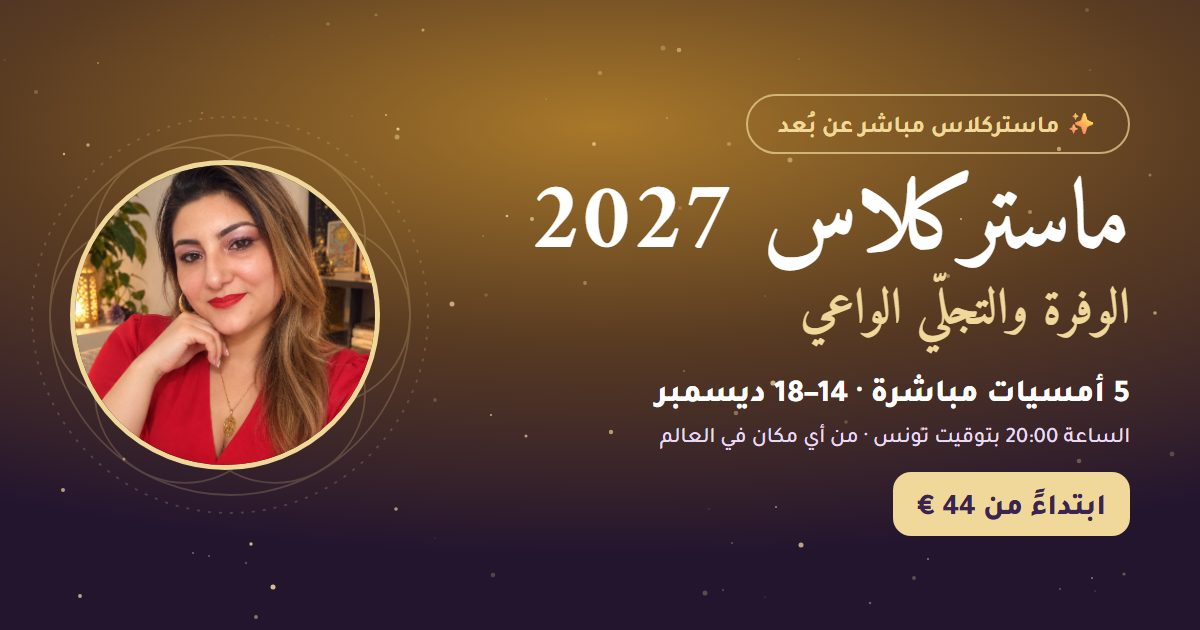
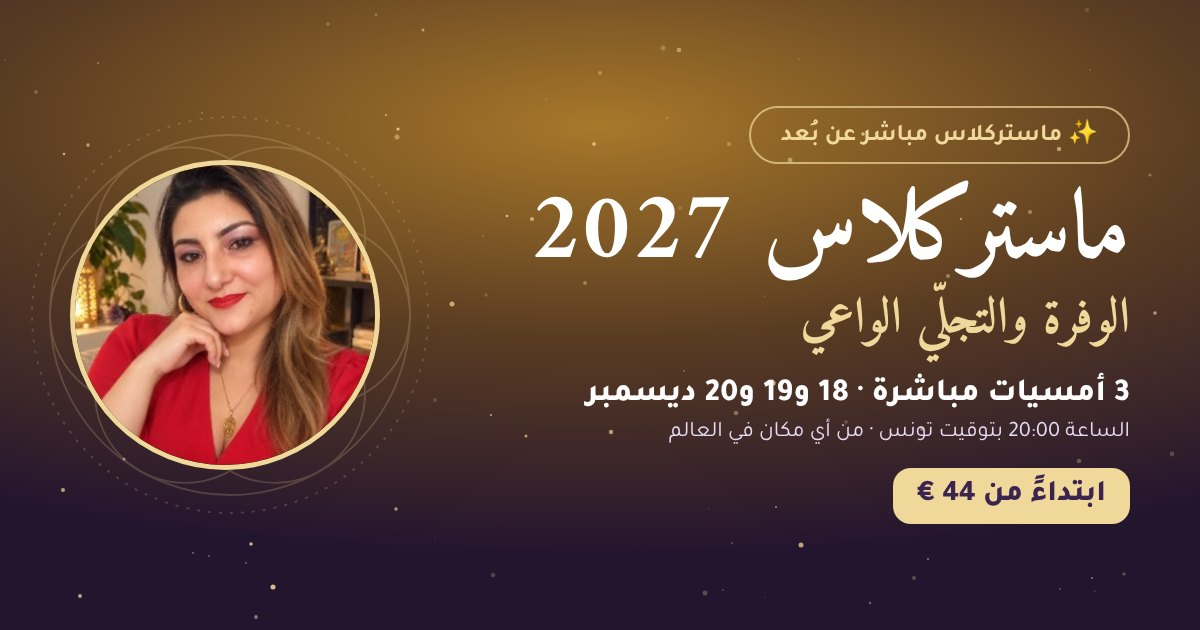
Masterclass images: new dates (3 evenings, Dec 18-20)
Regenerated the course cover and the promo post/story/link-preview images.

Claude-Session: https://claude.ai/code/session_01ReMr7DWTXfkfywxMdPP7wi

diff --git a/seo/build-promo.js b/seo/build-promo.js
@@ -6,16 +6,16 @@
 const fs = require('fs'), path = require('path'), os = require('os'), { execFileSync } = require('child_process');
 const ROOT = path.join(__dirname, '..'), OUT = path.join(ROOT, 'assets', 'promo');
 fs.mkdirSync(OUT, { recursive: true });
-const PORTRAIT = 'https://mhhzppszrqzjktqlgqag.supabase.co/storage/v1/object/public/public/images/mwmkvanl-whatsapp-image-2026-11-18-at-21-29-12.jpeg';
-const BROWSER = [process.env.CHROME, 'C:\\Program Files\\Google\\Chrome\\Application\\chrome.exe', 'C:\\Program Files (x86)\\Microsoft\\Edge\\Application\\msedge.exe'].find(p => p && fs.existsSync(p));
+const PORTRAIT = process.env.PORTRAIT || 'https://mhhzppszrqzjktqlgqag.supabase.co/storage/v1/object/public/public/images/mwmkvanl-whatsapp-image-2026-11-18-at-21-29-12.jpeg';
+const BROWSER = [process.env.CHROME, '/usr/bin/google-chrome', 'C:\\Program Files\\Google\\Chrome\\Application\\chrome.exe', 'C:\\Program Files (x86)\\Microsoft\\Edge\\Application\\msedge.exe'].find(p => p && fs.existsSync(p));
 const T = {
   ar: { dir: 'rtl', kicker: 'ماستركلاس مباشر عن بُعد', t1: 'ماستركلاس 2027', t2: 'الوفرة والتجلّي الواعي',
     lines: ['اختم 2026 بسلام', 'حرّر ما أثقلك', 'افتح باب الوفرة', 'ضع نواياك لعام 2027 بوعي'],
-    when: '5 أمسيات مباشرة · 14–18 ديسمبر', time: 'الساعة 20:00 بتوقيت تونس · من أي مكان في العالم',
+    when: '3 أمسيات مباشرة · 18 و19 و20 ديسمبر', time: 'الساعة 20:00 بتوقيت تونس · من أي مكان في العالم',
     price: 'ابتداءً من 44 €', cta: 'احجز مقعدك', by: 'مع راوية غربال', seats: 'المقاعد محدودة', url: 'centreholistique.net/masterclass-2027' },
   fr: { dir: 'ltr', kicker: 'Masterclass en ligne en direct', t1: 'Masterclass 2027', t2: 'Abondance & Manifestation consciente',
     lines: ['Clôturez 2026 en paix', 'Libérez ce qui vous pèse', 'Ouvrez la porte de l’abondance', 'Posez vos intentions pour 2027'],
-    when: '5 soirées en direct · 14–18 décembre', time: '20 h heure de Tunisie · partout dans le monde',
+    when: '3 soirées en direct · 18, 19 et 20 décembre', time: '20 h heure de Tunisie · partout dans le monde',
     price: 'À partir de 44 €', cta: 'Réservez votre place', by: 'avec Rawia Ghorbel', seats: 'Places limitées', url: 'centreholistique.net/masterclass-2027' }
 };
 function seed(r, stroke, op) {

diff --git a/seo/build-course-covers.js b/seo/build-course-covers.js
@@ -6,13 +6,13 @@ const fs = require('fs'), path = require('path'), os = require('os'), { execFile
 const { COURSES } = require('../assets/courses-data.js');
 const ROOT = path.join(__dirname, '..'), OUT = path.join(ROOT, 'assets', 'courses');
 fs.mkdirSync(OUT, { recursive: true });
-const BROWSER = [process.env.CHROME, 'C:\\Program Files\\Google\\Chrome\\Application\\chrome.exe', 'C:\\Program Files (x86)\\Microsoft\\Edge\\Application\\msedge.exe'].find(p => p && fs.existsSync(p));
+const BROWSER = [process.env.CHROME, '/usr/bin/google-chrome', 'C:\\Program Files\\Google\\Chrome\\Application\\chrome.exe', 'C:\\Program Files (x86)\\Microsoft\\Edge\\Application\\msedge.exe'].find(p => p && fs.existsSync(p));
 const esc = s => String(s).replace(/[&<>"]/g, c => ({ '&': '&amp;', '<': '&lt;', '>': '&gt;', '"': '&quot;' }[c]));
 const THEMES = { violet: ['#6b3f98', '#3b2550', '#1e1128'], rose: ['#b0477e', '#5e2a52', '#2a1328'], gold: ['#a8782a', '#5a3c22', '#24152f'], green: ['#2f7d62', '#22463f', '#122421'], indigo: ['#4b4fb8', '#2b2a6b', '#151433'], blue: ['#2e6fae', '#1f3c63', '#101d33'] };
 // short title shown on the image (the full title stays on the site)
 const SHORT = {
   'reiki-usui': ['الريكي أوسوي', 'من المستوى 1 إلى الماستر'], 'karuna-reiki': ['كارونا ريكي', 'ريكي الرحمة'], 'kundalini-reiki': ['كونداليني ريكي', 'إيقاظ الطاقة بلطف'],
-  'prana-healing': ['البرانا هيلينغ', 'العلاج بطاقة الحياة'], 'annales-akashiques': ['السجلات الأكاشية', 'افتح كتاب روحك'], 'bawabat-2027': ['ماستركلاس 2027', 'الوفرة والتجلّي الواعي', '5 أمسيات مباشرة · 14–18 ديسمبر'],
+  'prana-healing': ['البرانا هيلينغ', 'العلاج بطاقة الحياة'], 'annales-akashiques': ['السجلات الأكاشية', 'افتح كتاب روحك'], 'bawabat-2027': ['ماستركلاس 2027', 'الوفرة والتجلّي الواعي', '3 أمسيات مباشرة · 18–20 ديسمبر'],
   'jourouh-toufoula': ['جروح الطفولة الخمس', 'رحلة شفاء مع طفلك الداخلي'], 'alaqat-wa3iya': ['العلاقات الواعية', 'من التعلّق إلى الحب الحر'], 'karma-3oqoud': ['الكارما والعقود الروحية', 'حرّر ما أدّى مهمته'],
   'qouwat-al-sou2al': ['قوة السؤال', 'سؤال واحد يفتح كل الإمكانيات']
 };
